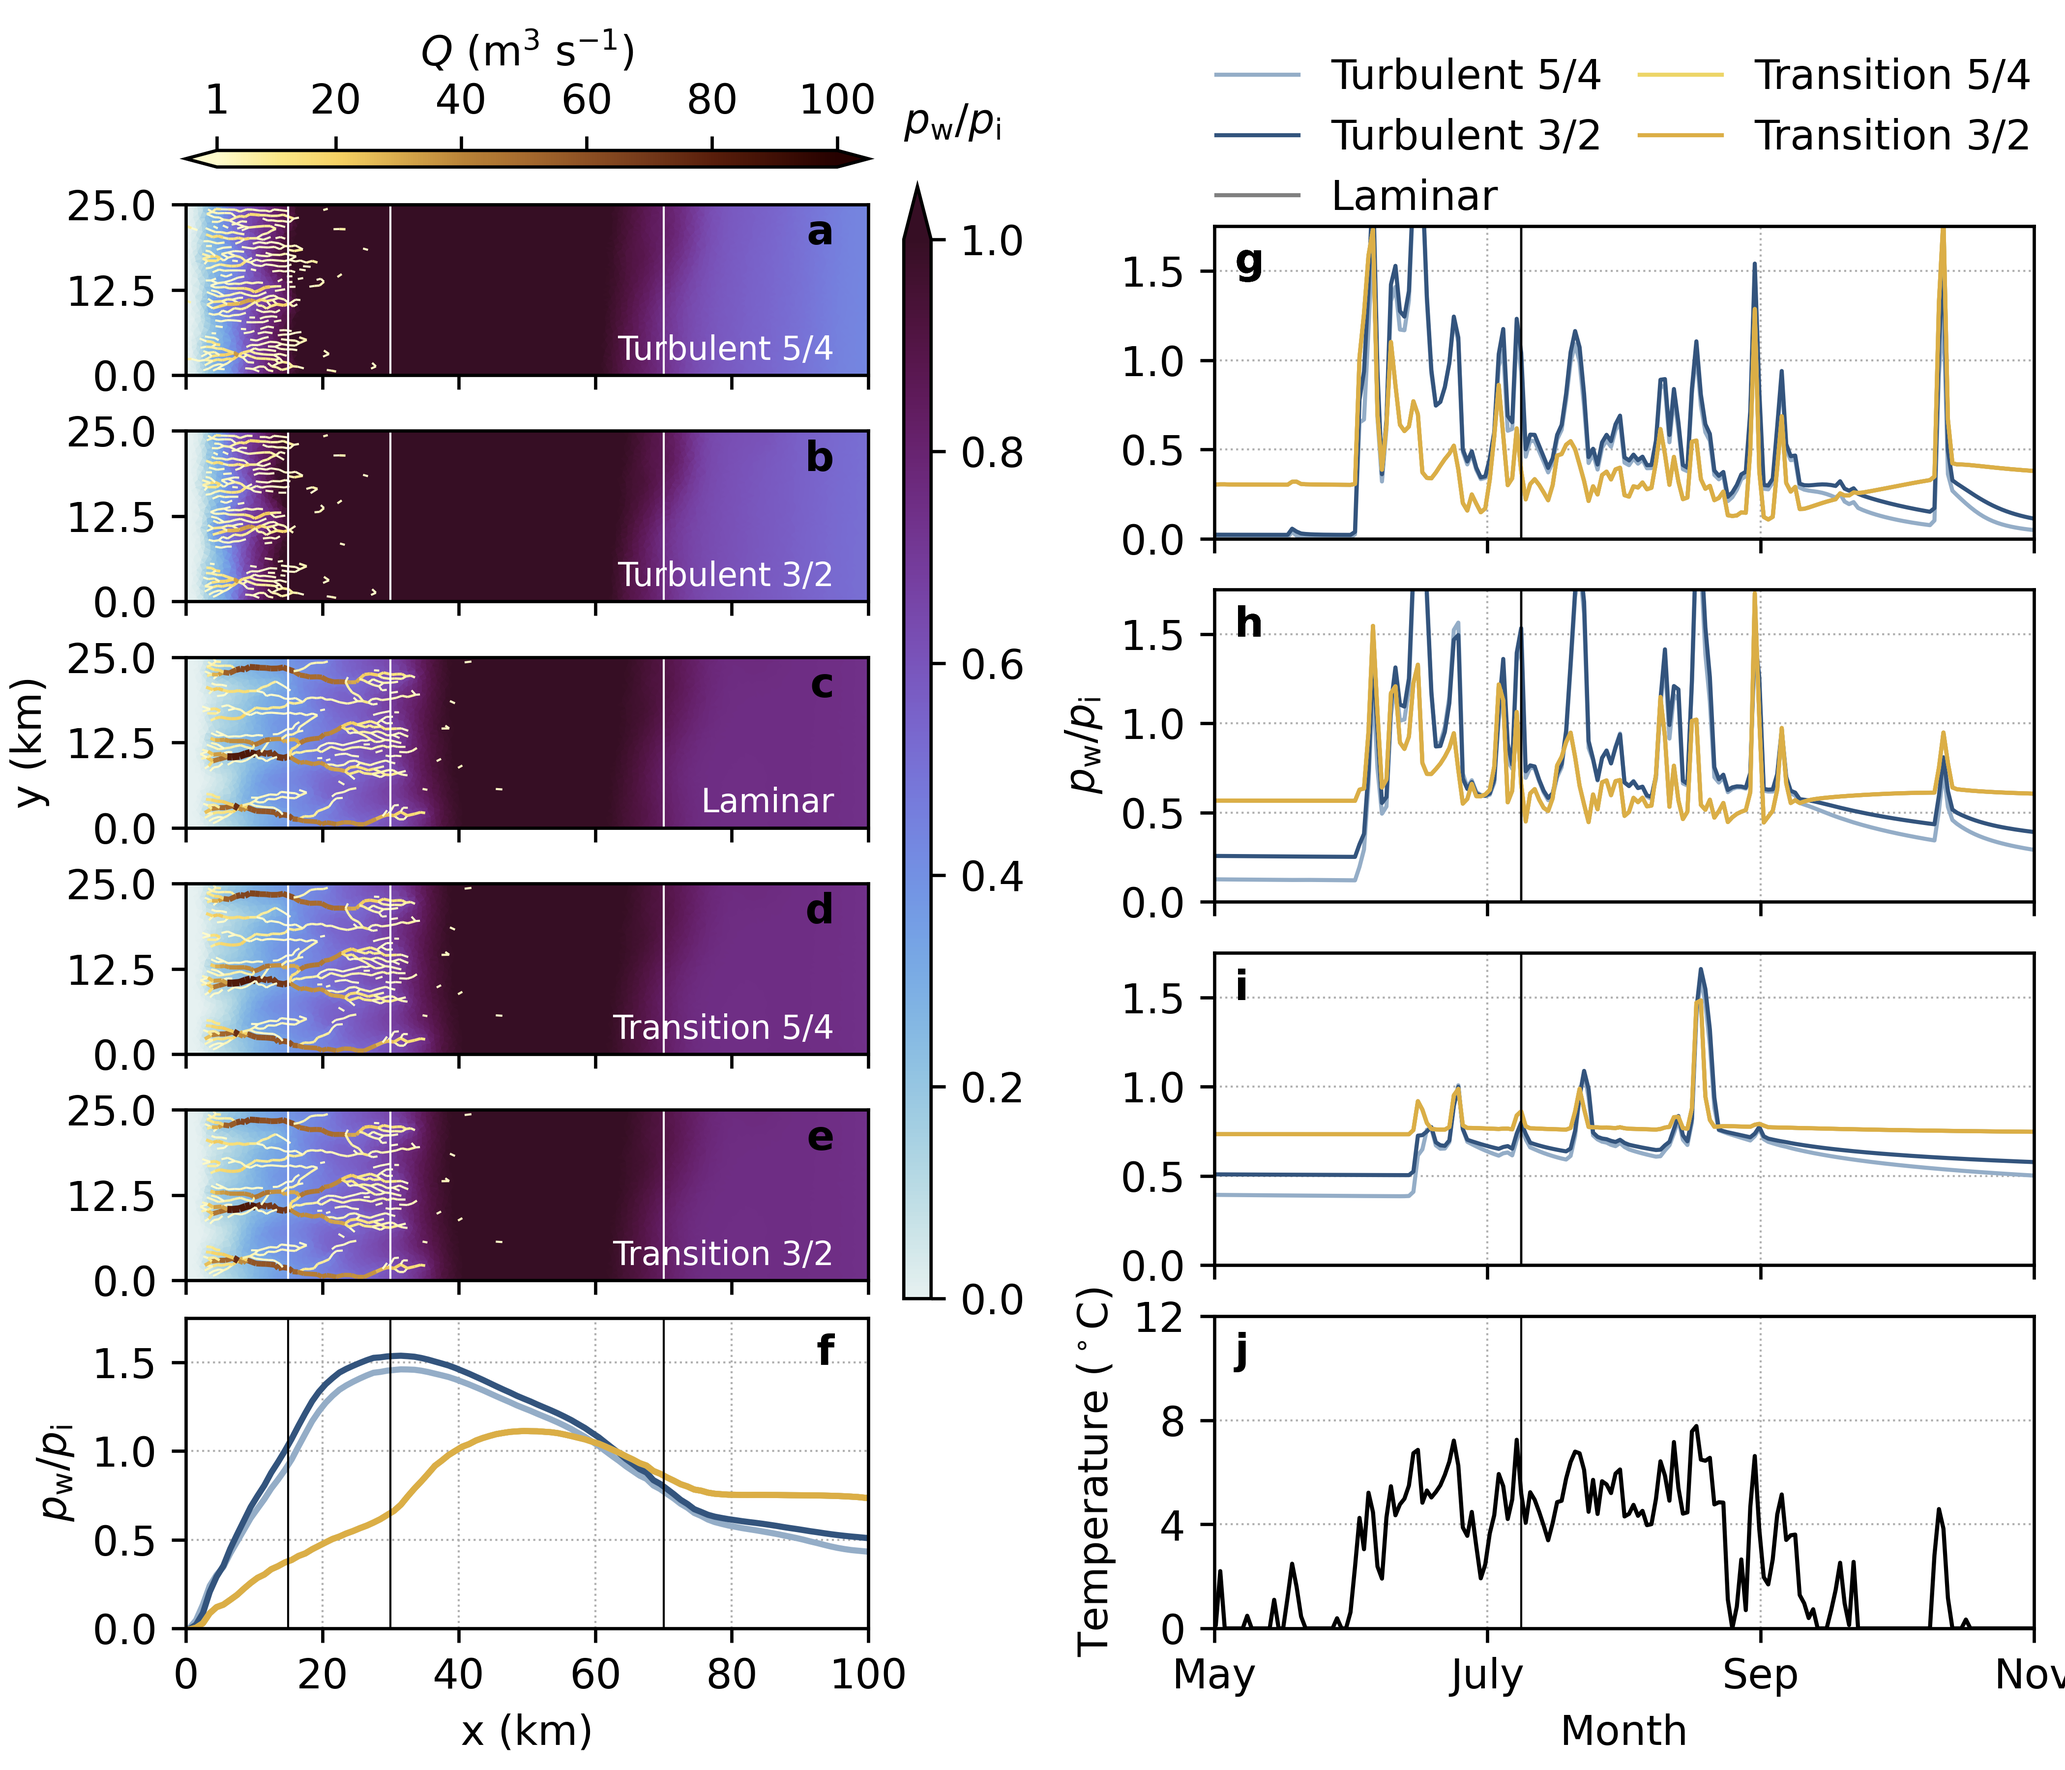
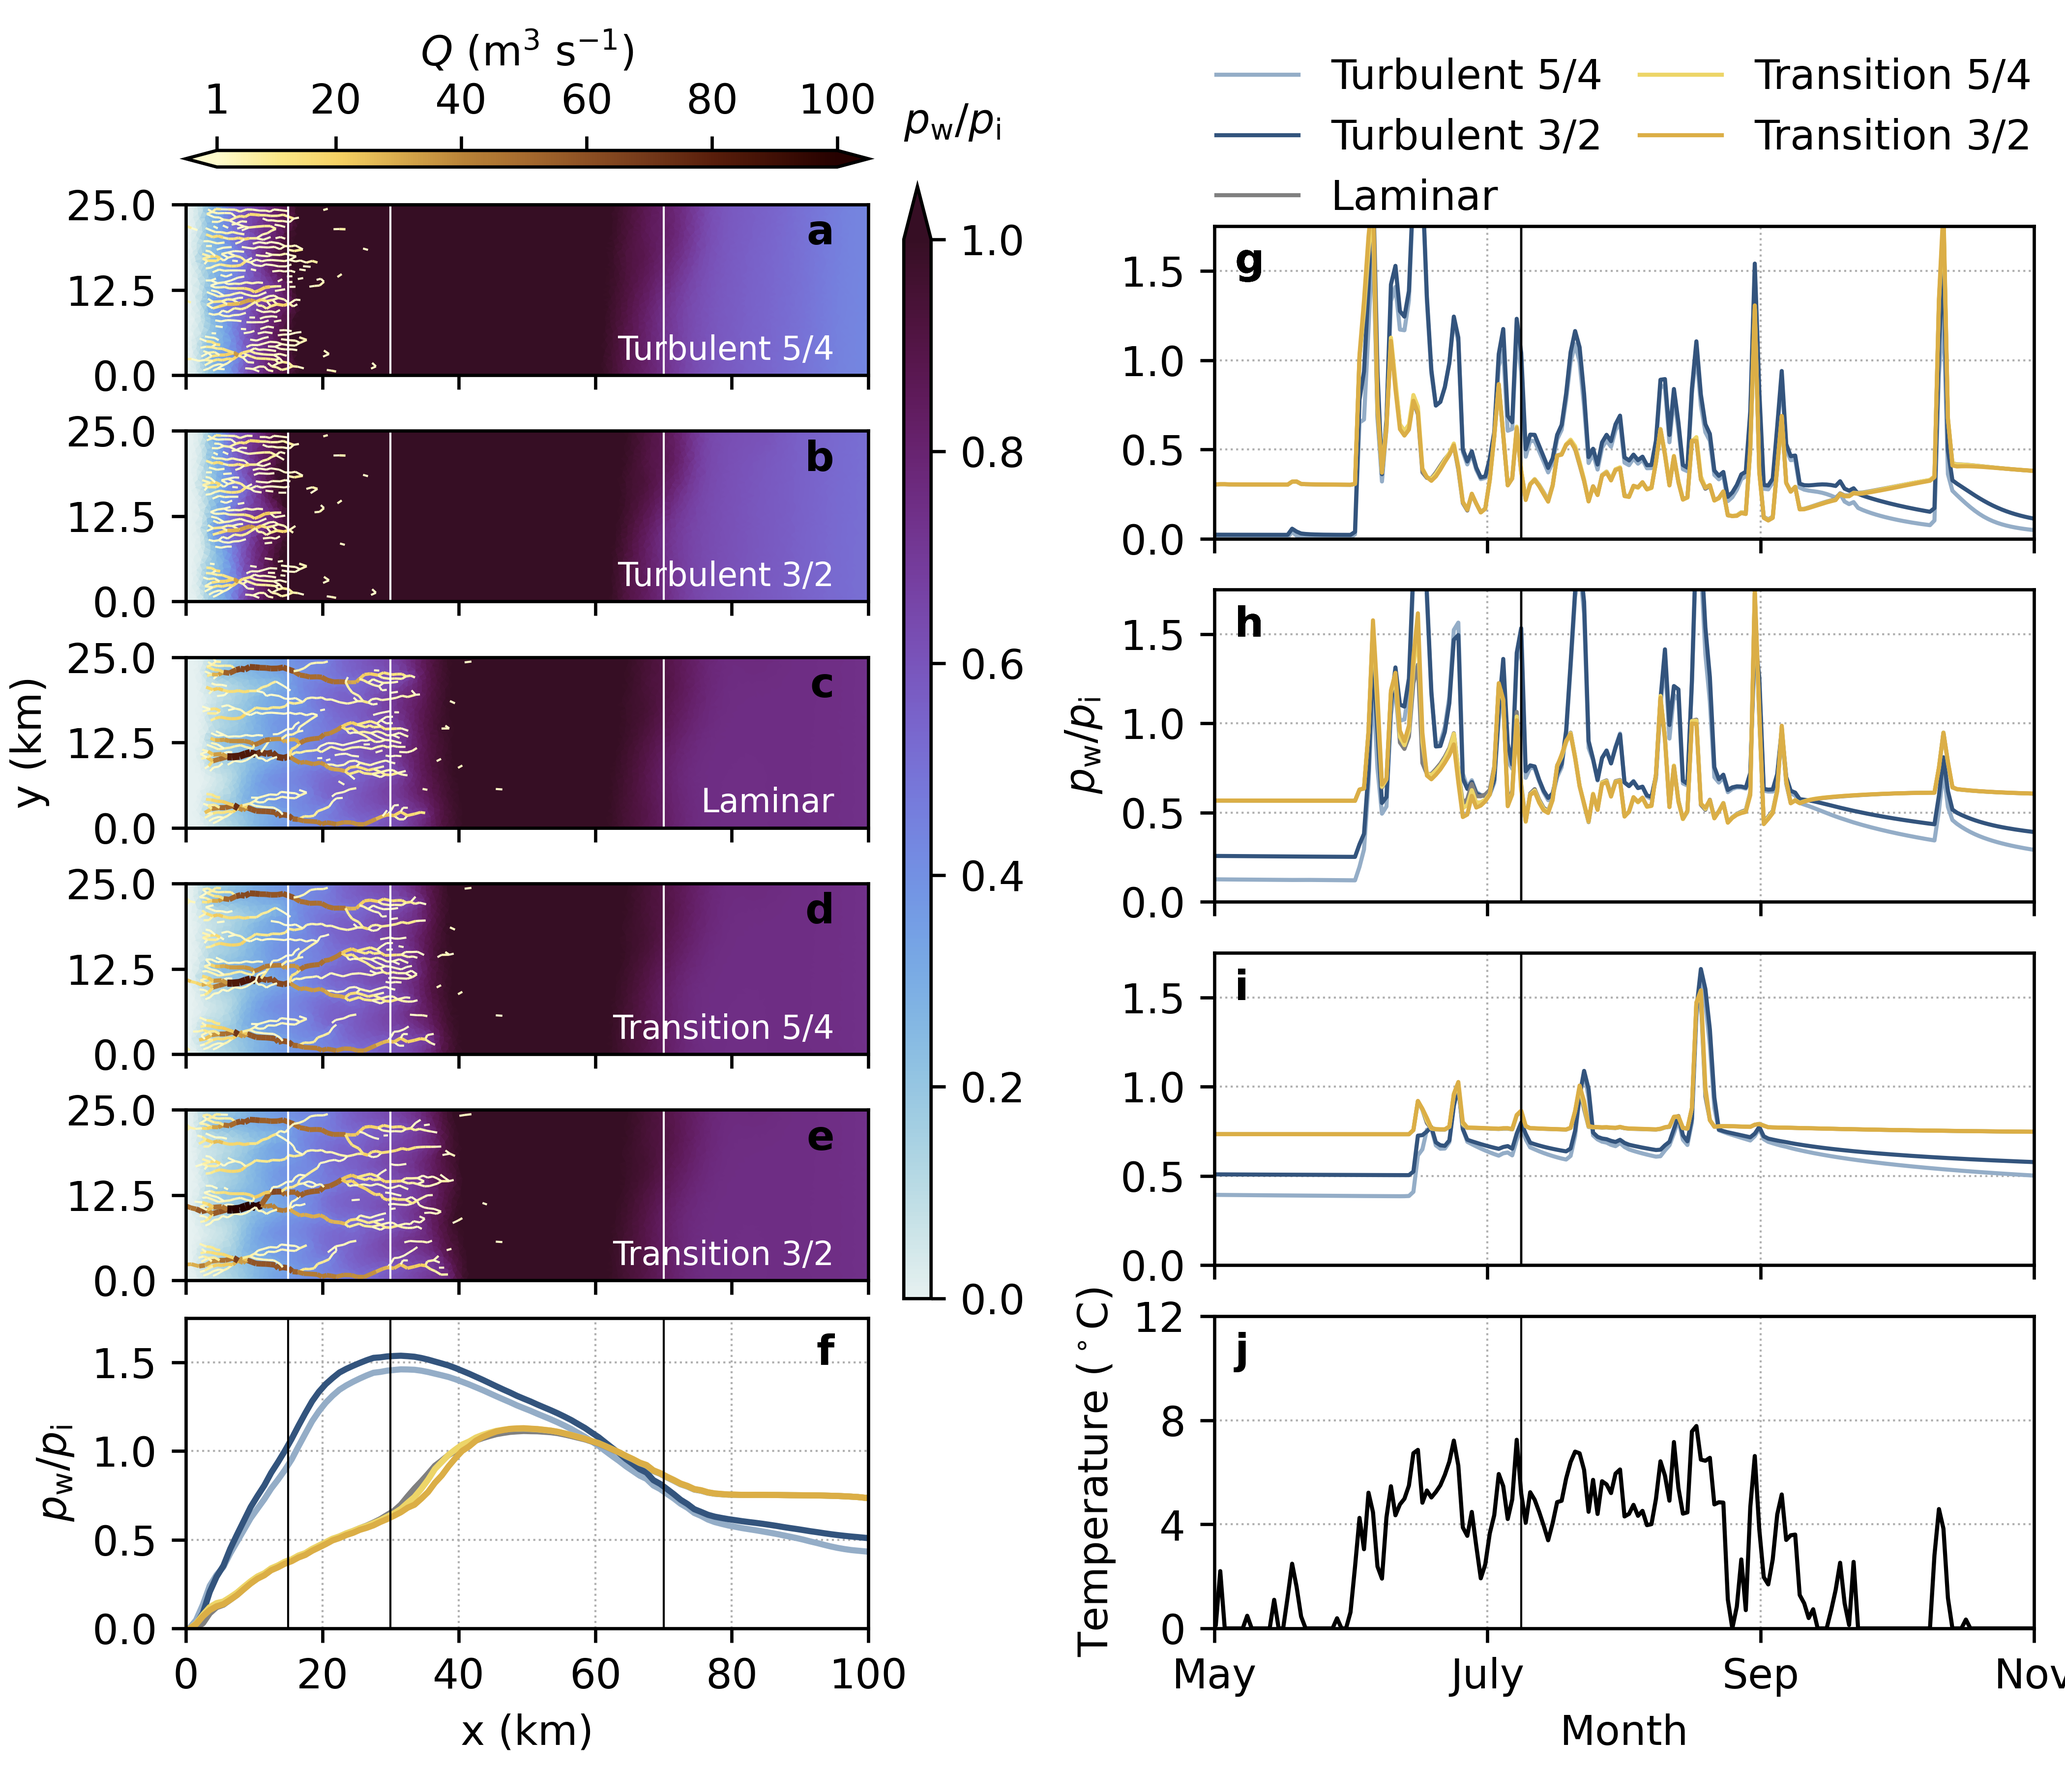
Last figure batch

diff --git a/analysis/make_pressure_figs.py b/analysis/make_pressure_figs.py
@@ -40,7 +40,6 @@ fig_01 = plot_pressure_maps_timeseries(fnames, figname, Qmin=1, Qmax=100, melt_f
      t_ticklabels=t_ticklabels, t_xlabel=t_xlabel, t_ticks=t_ticks, t_lim=t_lim,
      ff_ylim=[0, 1.75], ff_yticks=[0, 0.5, 1, 1.5])
 
-"""
 ## Case 01a: KAN increased forcing
 cases = [1, 2, 3, 4, 5]
 pattern = '../glads/01a_kan_adj_forcing/RUN/output_%03d_seasonal.nc'
@@ -49,9 +48,9 @@ figname ='01a_pressure_seasonal.png'
 fig_01 = plot_pressure_maps_timeseries(fnames, figname, Qmin=10, Qmax=200, melt_forcing='KANadj',
      t_ticklabels=t_ticklabels, t_xlabel=t_xlabel, t_ticks=t_ticks, t_lim=t_lim,
      ff_ylim=[0, 1.75], ff_yticks=[0, 0.5, 1, 1.5])
-"""
+
 ## Case 01b: Flat topo, KAN_L forcing, reduced e_v
-cases = [1, 2, 3, 3, 3]
+cases = [1, 2, 3, 4, 5]
 pattern = '../glads/01b_kan_forcing_ev/RUN/output_%03d_seasonal.nc'
 fnames = [pattern % caseid for caseid in cases]
 figname = '01b_pressure_seasonal_ev.png'
@@ -68,7 +67,6 @@ fig_02 = plot_pressure_maps_timeseries(fnames, figname, Qmin=1, Qmax=100, melt_f
     t_ticklabels=t_ticklabels[:-1], t_xlabel=t_xlabel, t_ticks=t_ticks[:-1], t_lim=[1+3/12, 1+9/12],
     ff_ylim=[0,1.75], ff_yticks=[0, 0.5, 1, 1.5])
 
-"""
 ## Case 02b: Valley topo, synthetic
 cases = [1, 2, 3, 4, 5]
 pattern = '../glads/02b_synth_forcing_valley/RUN/output_%03d_seasonal.nc'
@@ -77,7 +75,6 @@ figname = '02b_pressure_seasonal_valley.png'
 fig_02 = plot_pressure_maps_timeseries(fnames, figname, Qmin=10, Qmax=200, melt_forcing='SHMIPadj',
     t_ticklabels=t_ticklabels[:-1], t_xlabel=t_xlabel, t_ticks=t_ticks[:-1], t_lim=[1+3/12, 1+9/12],
     ff_ylim=[0,1.75], ff_yticks=[0, 0.5, 1, 1.5])
-"""
 
 ## Case 03a: Trough topo, KAN forcing
 cases = [1, 2, 3, 4, 5]

diff --git a/analysis/make_Re.py b/analysis/make_Re.py
@@ -36,7 +36,6 @@ fnames = [pattern % caseid for caseid in cases]
 figname = '01_Re_seasonal.png'
 fig_01 = plot_Re(fnames, figname, Qmin=1, Qmax=100, Re_ylim=(0, 4e3), tslice=365+174)
 
-"""
 ## Case 01a: KAN increased forcing
 cases = [1, 2, 3, 4, 5]
 pattern = '../glads/01a_kan_adj_forcing/RUN/output_%03d_seasonal.nc'
@@ -50,7 +49,6 @@ pattern = '../glads/01b_kan_forcing_ev/RUN/output_%03d_seasonal.nc'
 fnames = [pattern % caseid for caseid in cases]
 figname ='01b_Re_seasonal_ev.png'
 fig_01 = plot_Re(fnames, figname, Qmin=10, Qmax=200, Re_ylim=(0, 8e3))
-"""
 
 ## Case 02a: Synthetic forcing, trough topo
 cases = [1, 2, 3, 4, 5]
@@ -59,14 +57,12 @@ fnames = [pattern % caseid for caseid in cases]
 figname = '02a_Re_seasonal_trough.png'
 fig_02 = plot_Re(fnames, figname, Qmin=1, Qmax=100, Re_ylim=(0, 4e3))
 
-"""
 ## Case 02b: Synthetic forcing, valley topo
 cases = [1, 2, 3, 4, 5]
 pattern = '../glads/02b_synth_forcing_valley/RUN/output_%03d_seasonal.nc'
 fnames = [pattern % caseid for caseid in cases]
 figname = '02b_Re_seasonal_valley.png'
 fig_02 = plot_Re(fnames, figname, Qmin=1, Qmax=100, Re_ylim=(0, 4e3))
-"""
 
 ## Case 03a: KAN forcing, trough topo
 cases = [1, 2, 3, 4, 5]

diff --git a/analysis/plot_pressure_maps_separate_timeseries.py b/analysis/plot_pressure_maps_separate_timeseries.py
@@ -107,6 +107,13 @@ def plot_pressure_maps_timeseries(fnames, figname, tslice=defaults.tslice,
         lr = -0.005
         DT = lr*390
         temp_fun = lambda t: np.maximum(0*t, DT + np.interp(t%1, tt_days/365, temp_sl, left=0, right=0))
+    elif melt_forcing=='KANadj':
+        tt_temp = np.loadtxt('../glads/data/kan_l_melt/KAN_L_2014_temp_adjusted.txt', delimiter=',')
+        tt_days = tt_temp[:, 0]
+        temp_sl = tt_temp[:, 1]
+        lr = -0.0075
+        DT = lr*390
+        temp_fun = lambda t: np.maximum(0*t, DT + np.interp(t%1, tt_days/365, temp_sl, left=0, right=0))
     elif melt_forcing=='SHMIP':
         temp_fun = lambda t: np.maximum(-16*np.cos(2*np.pi*t) - 5, 0*t)
     elif melt_forcing=='SHMIPadj':

diff --git a/analysis/plot_pressure_maps_timeseries.py b/analysis/plot_pressure_maps_timeseries.py
@@ -106,6 +106,13 @@ def plot_pressure_maps_timeseries(fnames, figname, tslice=defaults.tslice,
         lr = -0.005
         DT = lr*390
         temp_fun = lambda t: np.maximum(0*t, DT + np.interp(t%1, tt_days/365, temp_sl, left=0, right=0))
+    elif melt_forcing=='KANadj':
+        tt_temp = np.loadtxt('../glads/data/kan_l_melt/KAN_L_2014_temp_adjusted.txt', delimiter=',')
+        tt_days = tt_temp[:, 0]
+        temp_sl = tt_temp[:, 1]
+        lr = -0.0075
+        DT = lr*390
+        temp_fun = lambda t: np.maximum(0*t, DT + np.interp(t%1, tt_days/365, temp_sl, left=0, right=0))
     elif melt_forcing=='SHMIP':
         temp_fun = lambda t: np.maximum(-16*np.cos(2*np.pi*t) - 5, 0*t)
     elif melt_forcing=='SHMIPadj':
